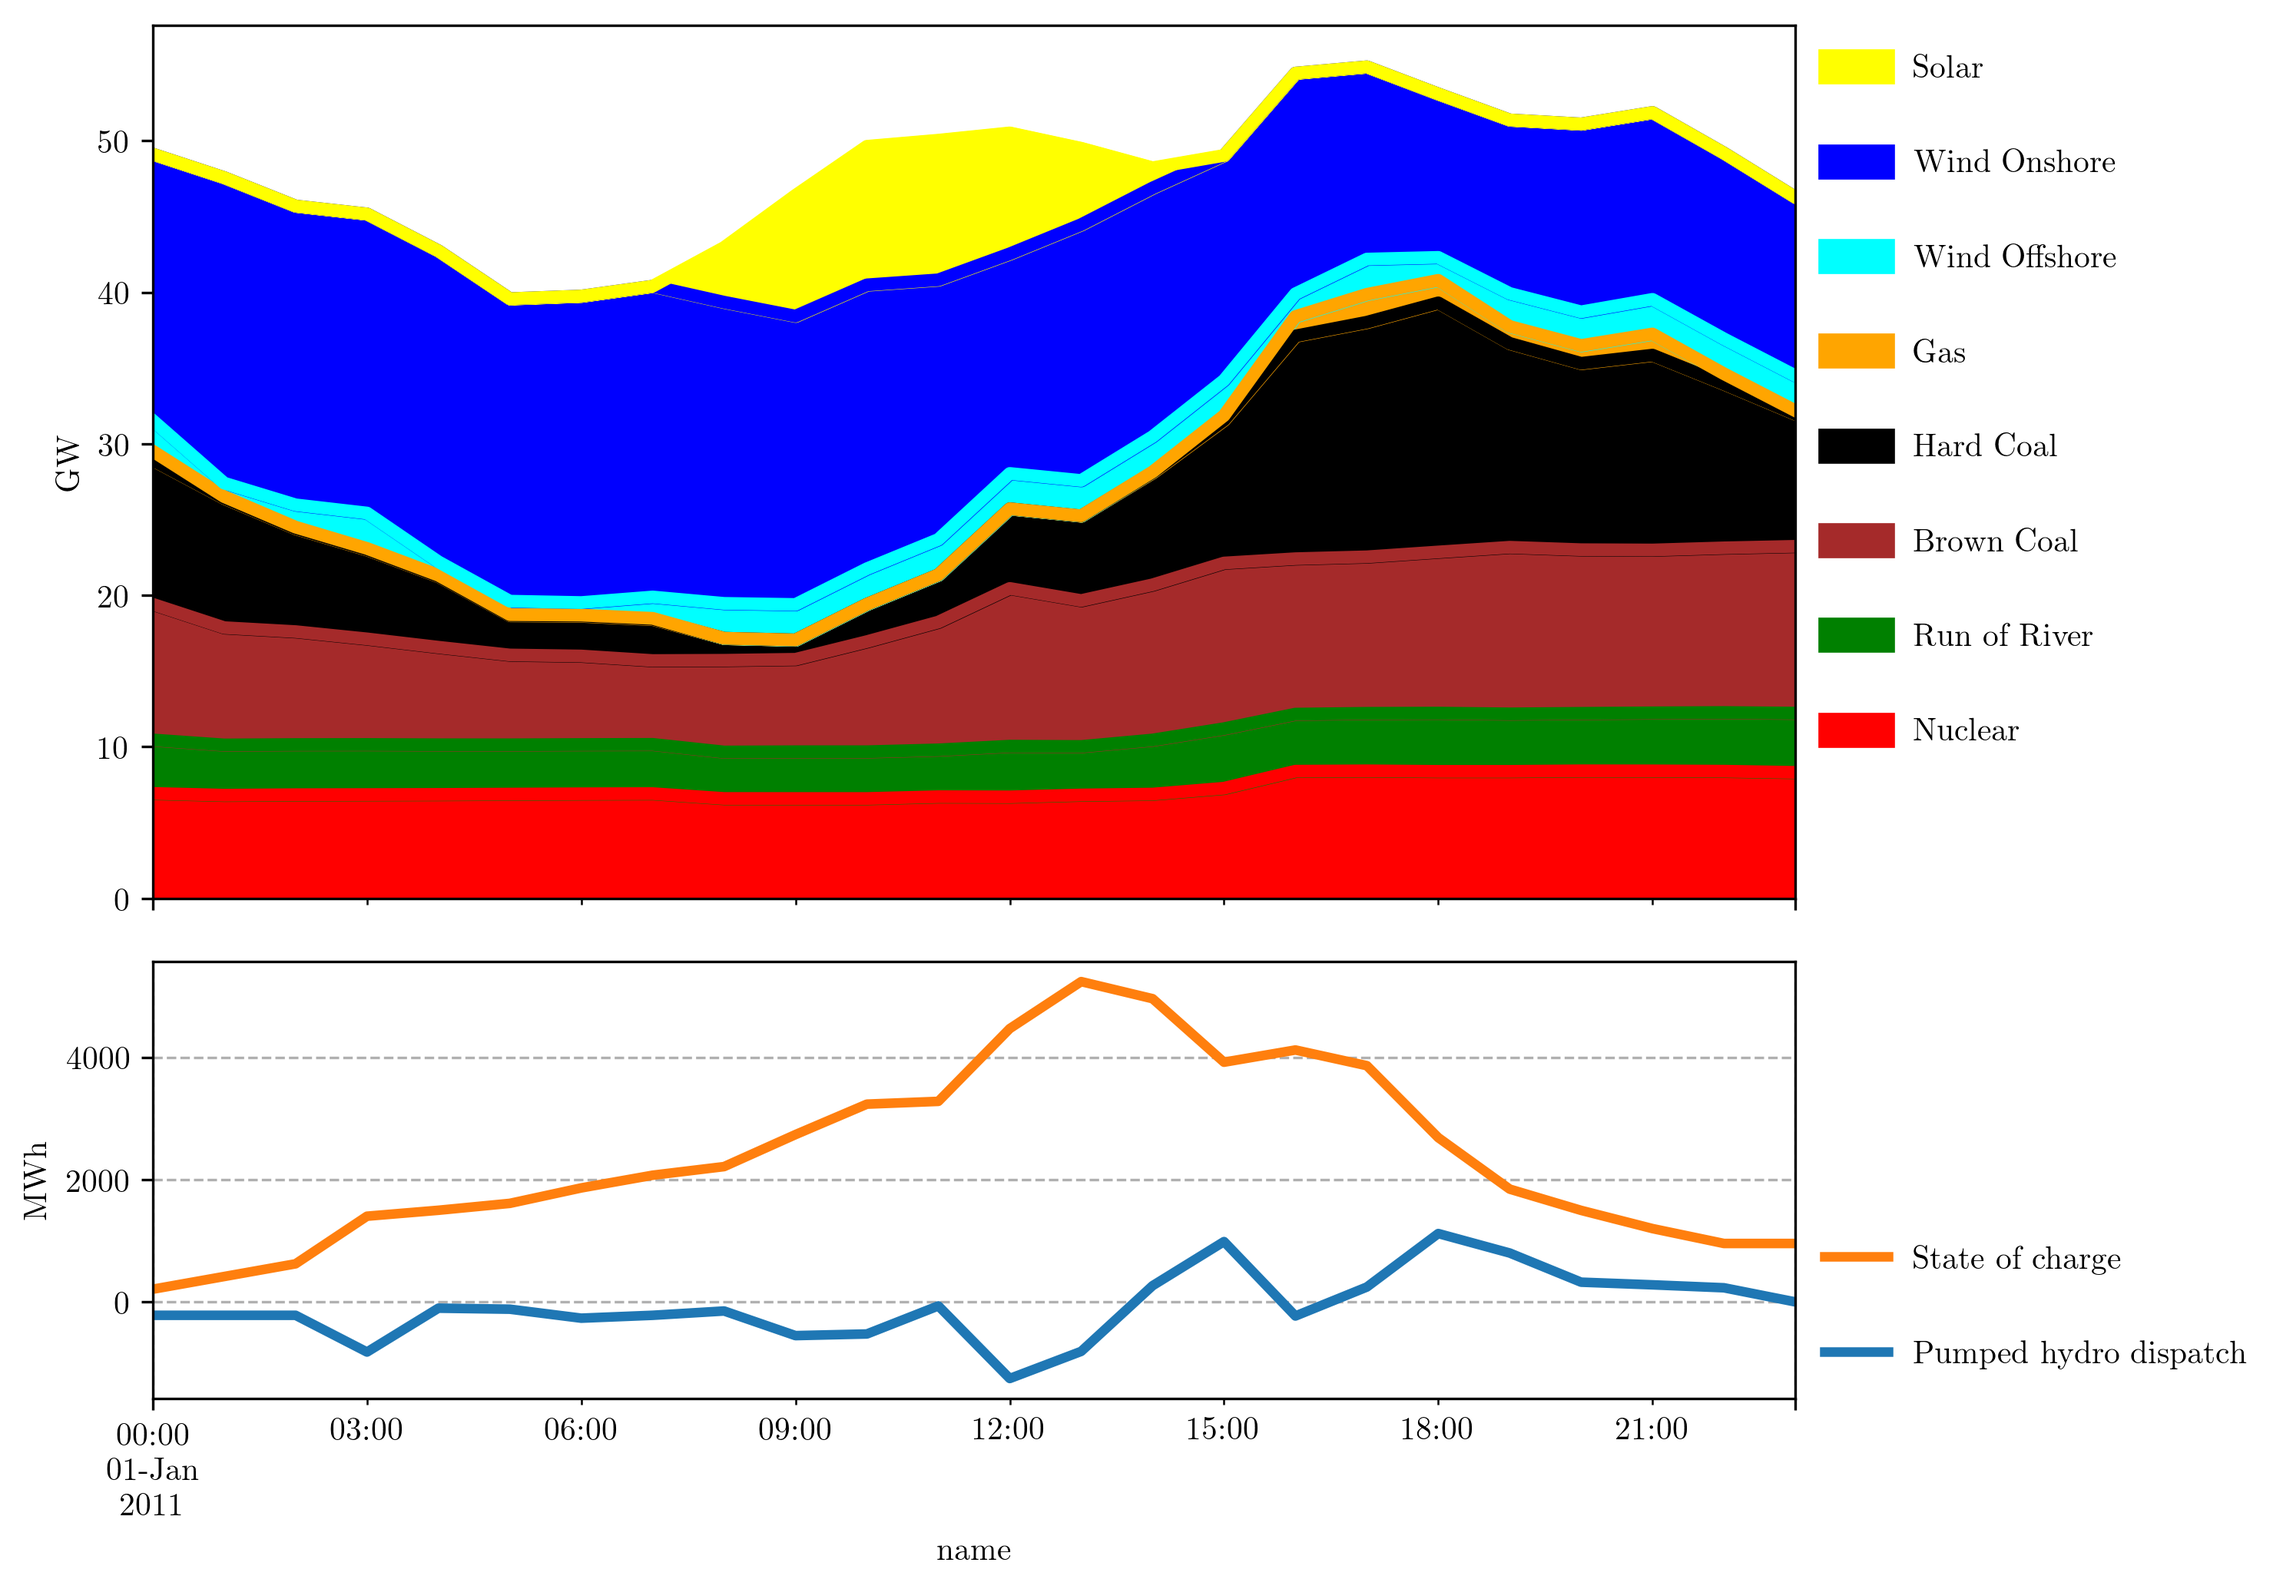
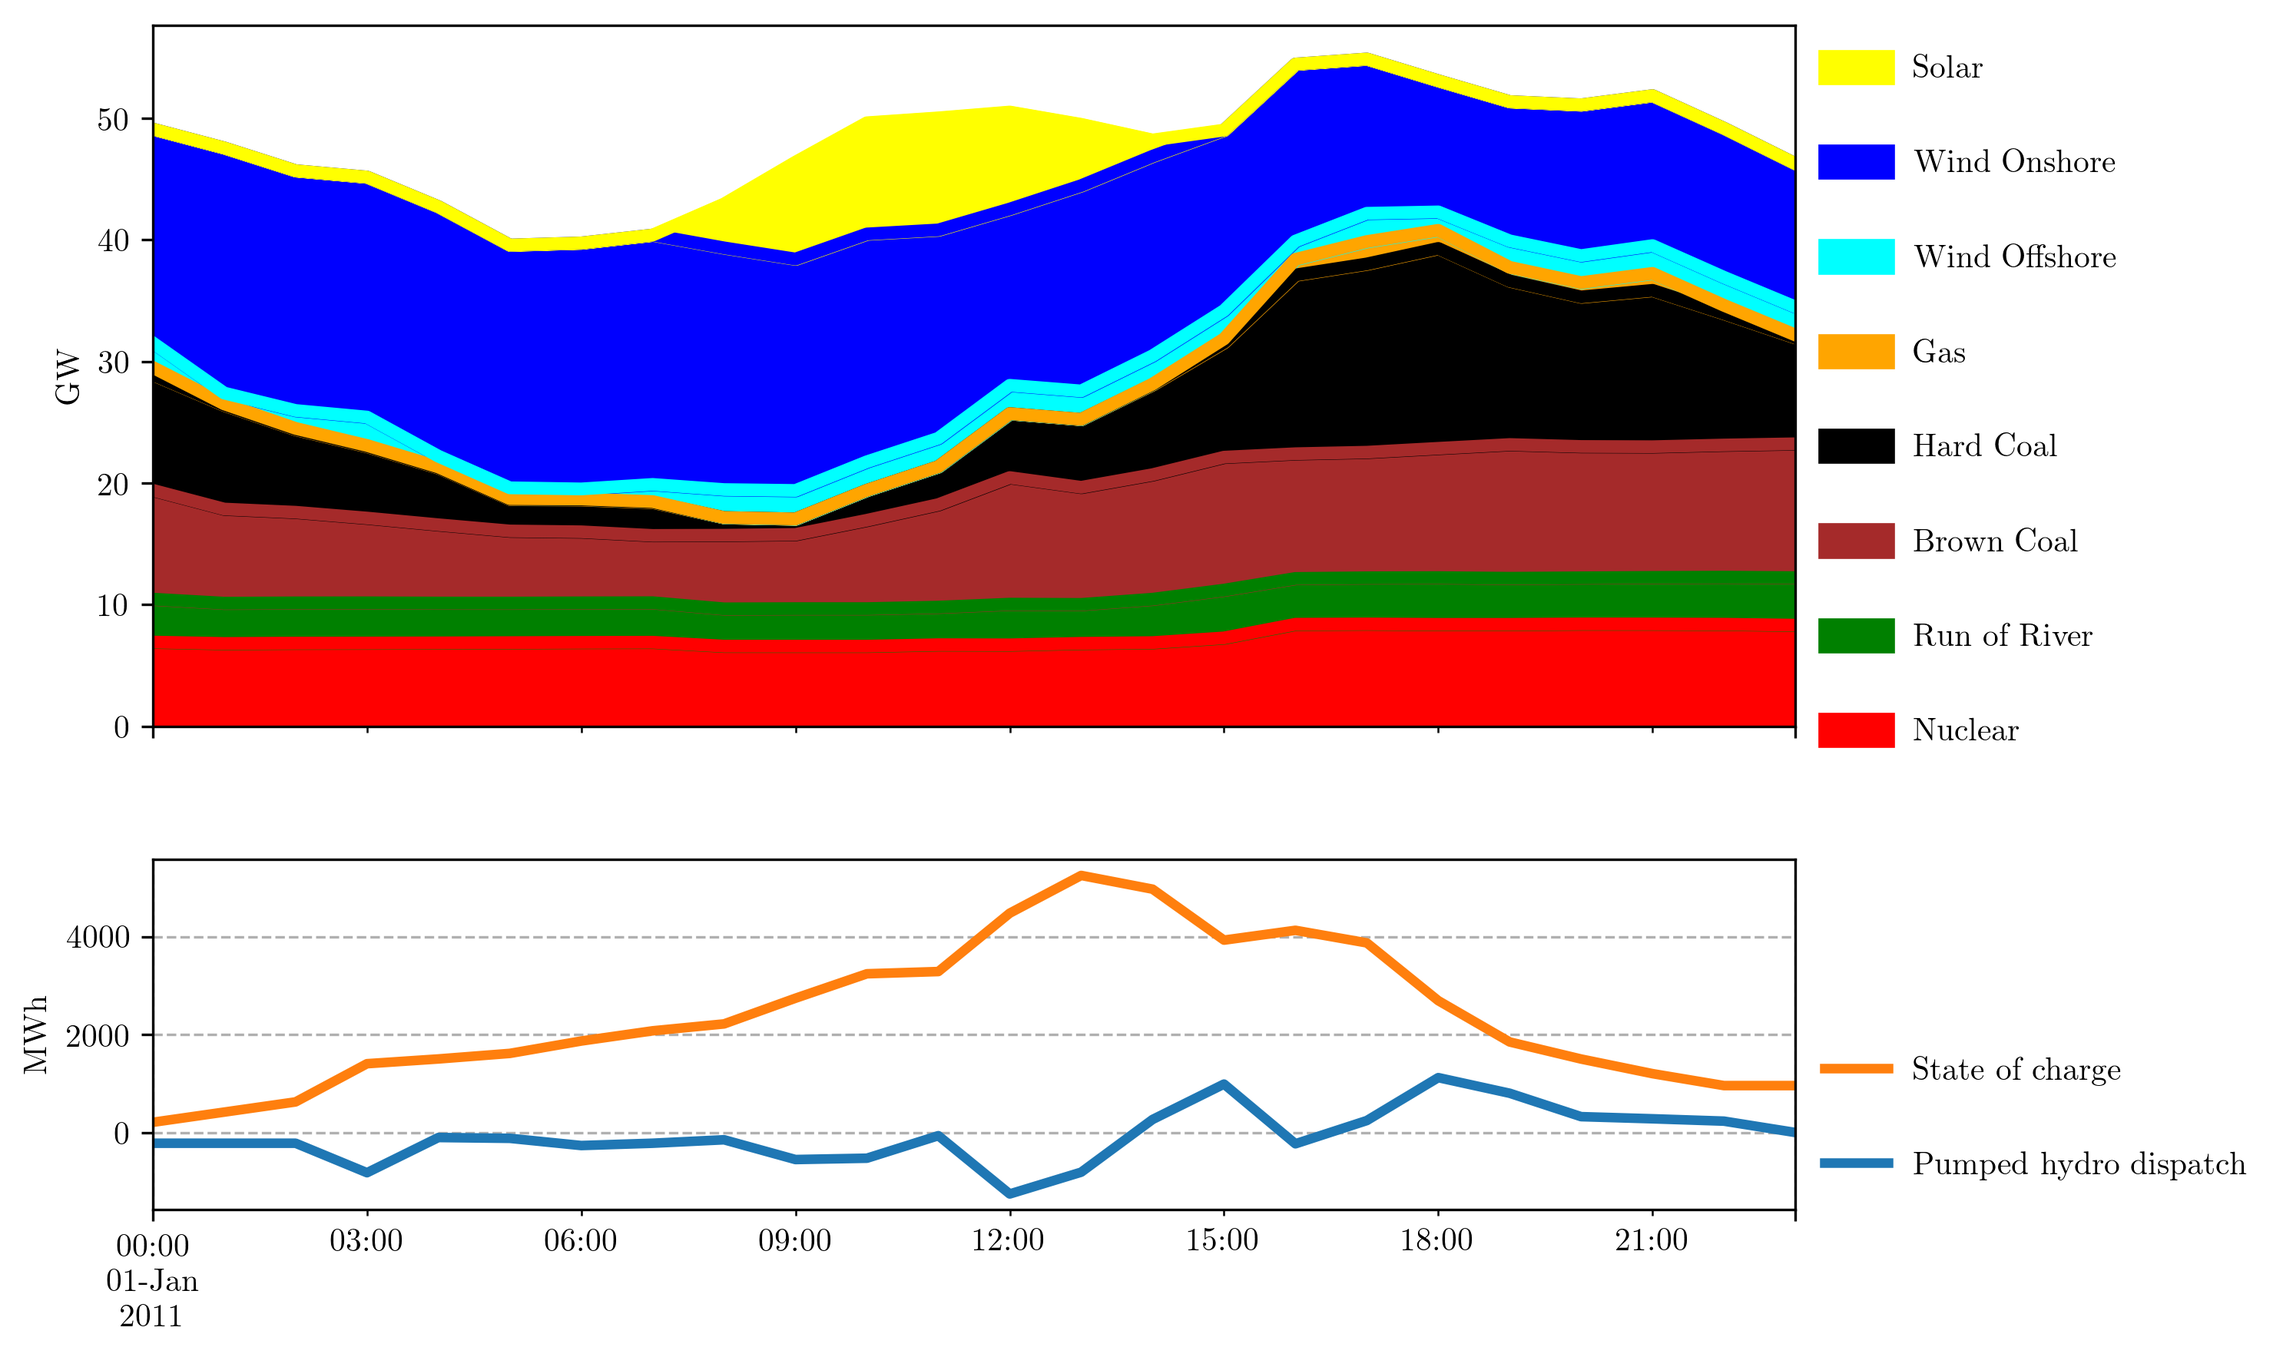
introduction.rst update plots scigrid example small cosmetic change in plot

diff --git a/examples/scigrid-de/scigrid-lopf-then-pf.py b/examples/scigrid-de/scigrid-lopf-then-pf.py
@@ -206,7 +206,7 @@ cols = ["Nuclear","Run of River","Brown Coal","Hard Coal",
         "Gas","Wind Offshore","Wind Onshore","Solar"]
 p_by_carrier = p_by_carrier[cols]
 
-fig, (ax1, ax2) = plt.subplots(2, 1, sharex=True, figsize=(10,7),
+fig, (ax1, ax2) = plt.subplots(2, 1, sharex=True, figsize=(10,6),
                               gridspec_kw={'height_ratios':[2,1]})
 
 
@@ -233,6 +233,7 @@ ax2.legend(reversed(handles), reversed(labels),
            labelspacing=2, frameon=False)
 ax2.grid(linestyle='dashed')
 ax2.set_ylabel("MWh")
+ax2.set_xlabel("")
 
 fig.tight_layout()
 fig.savefig("stacked-gen_and_storage-scigrid.png", bbox_inches='tight')
@@ -242,11 +243,10 @@ now = network.snapshots[4]
 print("With the linear load flow, there is the following per unit loading:")
 loading = network.lines_t.p0.loc[now]/network.lines.s_nom
 print(loading.describe())
-#%%
 #-----------------------------------------------------------------------------
 #line loading
 fig, (ax1, ax2) = plt.subplots(1,2, subplot_kw={"projection":ccrs.PlateCarree()},
-                                       figsize=(12,4))
+                                       figsize=(10,4))
 
 nplot = network.plot(ax=ax1,line_colors=abs(loading), bus_colors='grey',
                      bus_sizes=0.5, geomap='10m',
@@ -372,12 +372,12 @@ print((s*180/np.pi).describe())
 
 
 #-----------------------------------------------------------------------------
-#%%
+
 #plot the reactive power
 
 fig,ax = plt.subplots(1,1, subplot_kw={"projection":ccrs.PlateCarree()})
 
-fig.set_size_inches(6,6)
+fig.set_size_inches(8,6)
 
 q = network.buses_t.q.loc[now]
 
@@ -386,9 +386,10 @@ bus_colors[q< 0.] = "b"
 
 
 network.plot(bus_sizes=abs(q),ax=ax,bus_colors=bus_colors,
-             line_widths=0.1,
+             line_widths=0.1, geomap='10m', color_geomap=True,
              title="Reactive power feed-in (red=+ve, blue=-ve)")
 
+fig.canvas.draw()
 fig.tight_layout()
 fig.savefig("reactive-power.png")
 

diff --git a/doc/introduction.rst b/doc/introduction.rst
@@ -59,40 +59,41 @@ What PyPSA does and does not do (yet)
 Screenshots
 ===========
 
-Results from a PyPSA simulation can be converted into an interactive
-online animation using `PyPSA-animation
-<https://github.com/PyPSA/PyPSA-animation>`_, see the `PyPSA-Eur-30
-example <https://www.pypsa.org/animations/pypsa-eur-30/>`_.
 
-Another showcase for PyPSA is the `SciGRID example
-<https://pypsa.org/examples/scigrid-lopf-then-pf-plotly.html>`_ which
-demonstrates interactive plots generated with the `plotly
-<https://plot.ly/python/>`_ library.
+* `Pypsa-EUR <https://github.com/PyPSA/pypsa-eur>`_ optimising capacities of generation, storage and transmission lines (9% line volume expansion allowed) for a 95% reduction in CO2 emissions in Europe compared to 1990 levels
 
-
-.. image:: img/lmp_and_line-loading.png
+.. image:: img/elec_s_256_lv1.09_Co2L-3H.png
     :align: center
+    :width: 700px
 
-.. image:: img/reactive-power.png
-    :align: center
-    :width: 500px
 
+*  `SciGRID model <https://power.scigrid.de/>`_ simulating the German power system for 2015. Interactive plots also be generated with the `plotly <https://plot.ly/python/>`_ library, as shown in this `Notebook <https://pypsa.org/examples/scigrid-lopf-then-pf-plotly.html>`_
 
 .. image:: img/stacked-gen_and_storage-scigrid.png
     :align: center
 
-.. image:: img/scigrid-curtailment.png
-    :align: left
+.. image:: img/lmp_and_line-loading.png
+    :align: right
+
+
+.. image:: img/reactive-power.png
+    :align: center
+    :width: 600px
+
+
+* Small meshed AC-DC toy model
 
 .. image:: img/ac_dc_meshed.png
     :align: center
     :width: 400px
 
+All results from a PyPSA simulation can be converted into an interactive
+online animation using `PyPSA-animation
+<https://github.com/PyPSA/PyPSA-animation>`_, for an example see the `PyPSA-Eur-30
+example <https://www.pypsa.org/animations/pypsa-eur-30/>`_. 
 
-Optimised capacities of generation and storage for a 95% reduction in CO2 emissions in Europe compare to 1990 levels:
 
-.. image:: img/euro-pie-pre-7-branch_limit-1-256.png
-.. image:: img/legend-flat.png
+
 
 
 What PyPSA uses under the hood
